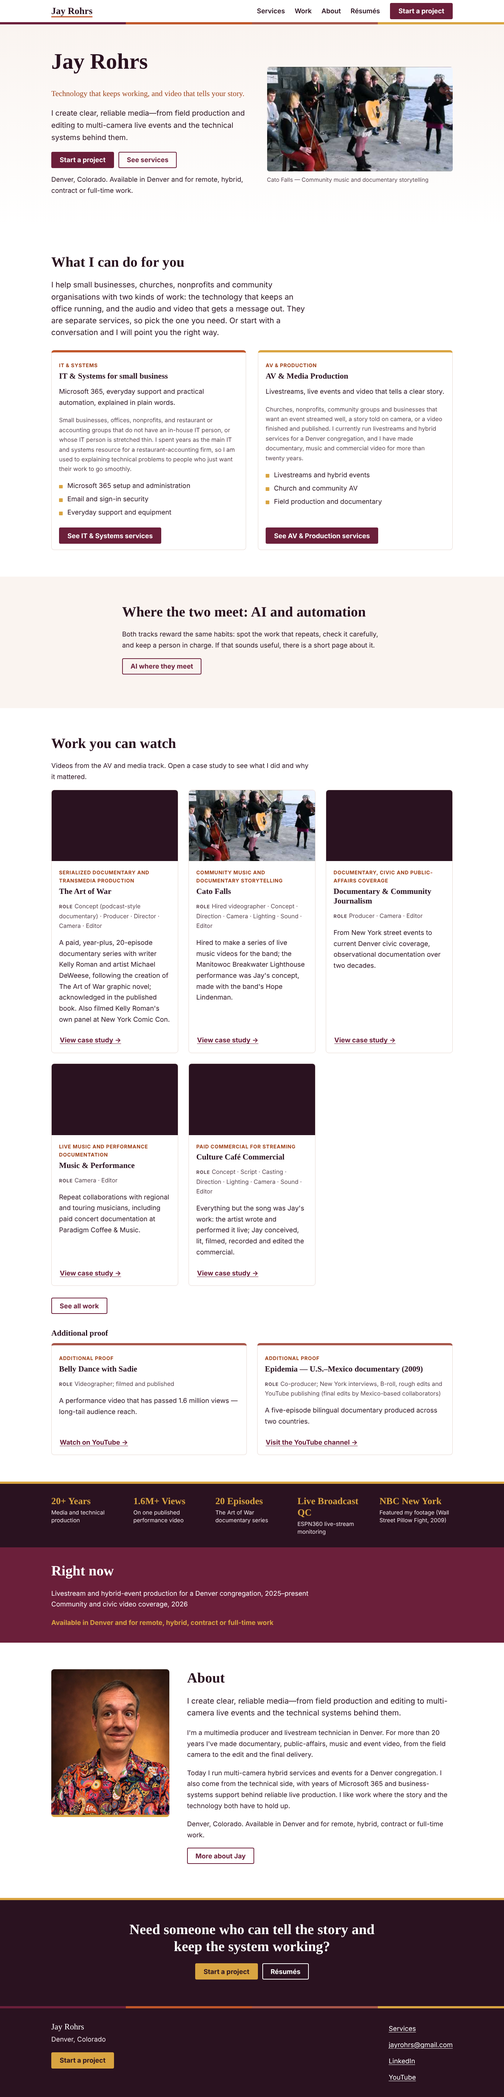
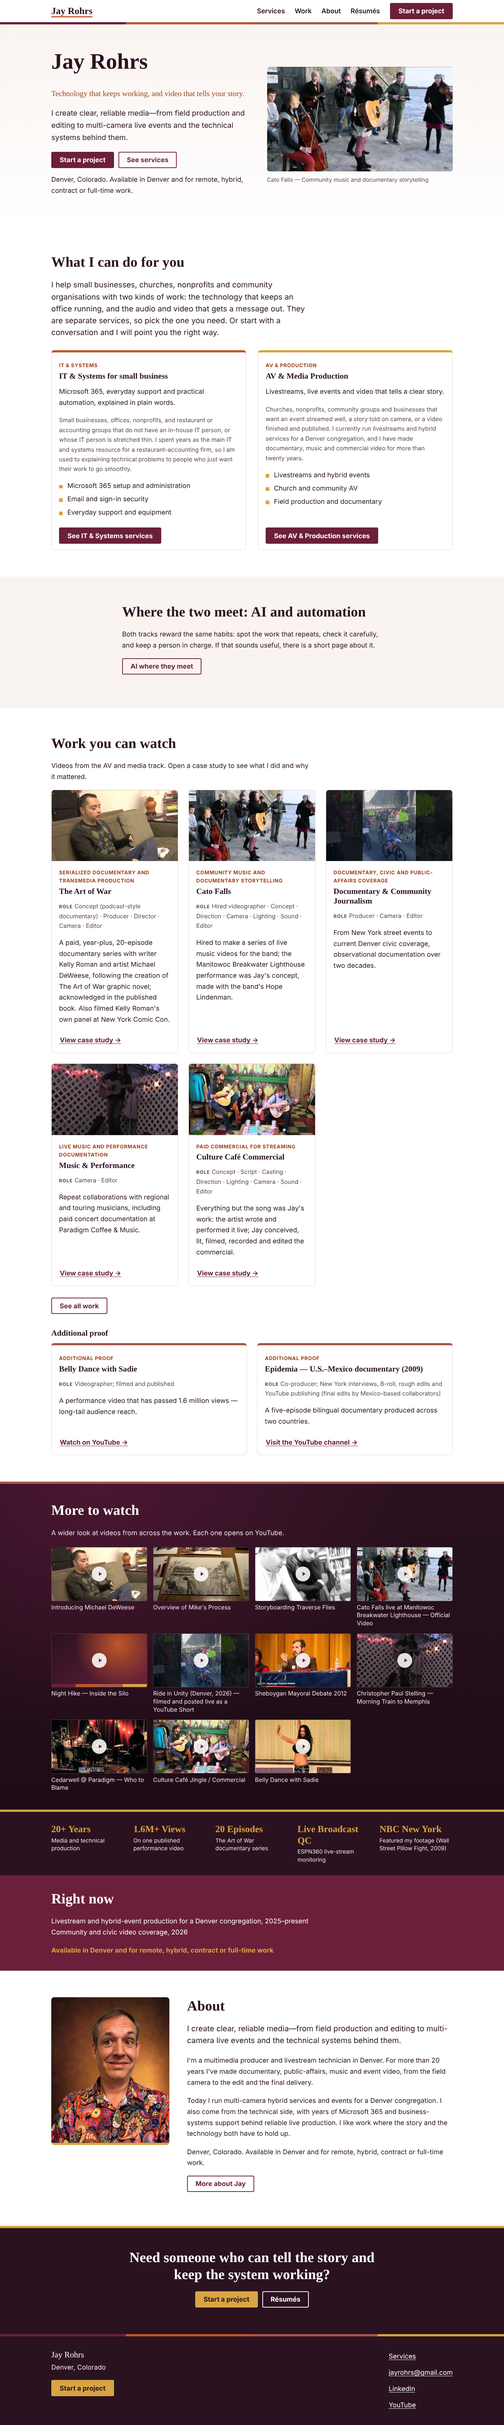
Regenerate pages, sitemap and screenshots
Claude-Session: https://claude.ai/code/session_01GVagyfTdzkbgGPHEb9ysaz

diff --git a/index.html b/index.html
@@ -5,16 +5,18 @@
 <meta name="viewport" content="width=device-width, initial-scale=1">
 <title>Jay Rohrs — IT &amp; Systems and AV &amp; Media Production in Denver</title>
 <meta name="description" content="Technology that keeps working, and video that tells your story. IT and systems help, and AV and media production, for small businesses, churches and nonprofits. Denver, Colorado.">
+<link rel="canonical" href="https://www.jbase.app/">
 <meta property="og:type" content="website">
 <meta property="og:site_name" content="Jay Rohrs">
 <meta property="og:title" content="Jay Rohrs — IT &amp; Systems and AV &amp; Media Production in Denver">
 <meta property="og:description" content="Technology that keeps working, and video that tells your story. IT and systems help, and AV and media production, for small businesses, churches and nonprofits. Denver, Colorado.">
+<meta property="og:url" content="https://www.jbase.app/">
 <meta name="twitter:card" content="summary">
 <meta http-equiv="Content-Security-Policy" content="default-src 'self'; img-src 'self' data:; style-src 'self'; script-src 'self'; frame-src https://www.youtube-nocookie.com; base-uri 'none'; form-action 'none'">
 <meta name="theme-color" content="#2a1220">
 <link rel="icon" href="assets/favicon.svg" type="image/svg+xml">
 <link rel="stylesheet" href="assets/style.css">
-<script type="application/ld+json">{"@context":"https://schema.org","@graph":[{"@type":"Person","@id":"#jay","name":"Jay Rohrs","email":"jayrohrs@gmail.com","sameAs":["https://www.linkedin.com/in/jay-rohrs","https://www.youtube.com/@JCliche/videos"],"address":{"@type":"PostalAddress","addressLocality":"Denver","addressRegion":"Colorado"}},{"@type":"ProfessionalService","name":"Jay Rohrs","description":"I create clear, reliable media—from field production and editing to multi-camera live events and the technical systems behind them.","email":"jayrohrs@gmail.com","founder":{"@id":"#jay"},"address":{"@type":"PostalAddress","addressLocality":"Denver","addressRegion":"Colorado"},"sameAs":["https://www.linkedin.com/in/jay-rohrs","https://www.youtube.com/@JCliche/videos"]}]}</script>
+<script type="application/ld+json">{"@context":"https://schema.org","@graph":[{"@type":"Person","@id":"#jay","name":"Jay Rohrs","email":"jayrohrs@gmail.com","sameAs":["https://www.linkedin.com/in/jay-rohrs","https://www.youtube.com/@JCliche/videos"],"address":{"@type":"PostalAddress","addressLocality":"Denver","addressRegion":"Colorado"}},{"@type":"ProfessionalService","name":"Jay Rohrs","description":"I create clear, reliable media—from field production and editing to multi-camera live events and the technical systems behind them.","email":"jayrohrs@gmail.com","founder":{"@id":"#jay"},"address":{"@type":"PostalAddress","addressLocality":"Denver","addressRegion":"Colorado"},"sameAs":["https://www.linkedin.com/in/jay-rohrs","https://www.youtube.com/@JCliche/videos"],"url":"https://www.jbase.app/"}]}</script>
 </head>
 <body>
 <a class="skip" href="#main">Skip to main content</a>
@@ -173,6 +175,26 @@
   </div>
 </article>
     </div>
+  </div>
+</section>
+
+<section class="wall" id="wall" aria-labelledby="wall-h">
+  <div class="wrap">
+    <h2 id="wall-h">More to watch</h2>
+    <p class="narrow-text">A wider look at videos from across the work. Each one opens on YouTube.</p>
+    <ul class="tiles">
+      <li><a class="tile" href="https://youtu.be/W0aLdycp7ug" target="_blank" rel="noopener noreferrer"><span class="video-frame"><img src="assets/thumbs/W0aLdycp7ug.jpg" alt="" width="480" height="360" loading="lazy" decoding="async"><span class="play play-sm" aria-hidden="true"><svg viewBox="0 0 24 24" width="18" height="18"><path d="M8 5v14l11-7z" fill="currentColor"/></svg></span></span><span class="tile-cap">Introducing Michael DeWeese<span class="sr"> (opens on YouTube in a new tab)</span></span></a></li>
+      <li><a class="tile" href="https://youtu.be/28LTwa-Nldc" target="_blank" rel="noopener noreferrer"><span class="video-frame"><img src="assets/thumbs/28LTwa-Nldc.jpg" alt="" width="480" height="360" loading="lazy" decoding="async"><span class="play play-sm" aria-hidden="true"><svg viewBox="0 0 24 24" width="18" height="18"><path d="M8 5v14l11-7z" fill="currentColor"/></svg></span></span><span class="tile-cap">Overview of Mike's Process<span class="sr"> (opens on YouTube in a new tab)</span></span></a></li>
+      <li><a class="tile" href="https://youtu.be/K1eLNMcTljc" target="_blank" rel="noopener noreferrer"><span class="video-frame"><img src="assets/thumbs/K1eLNMcTljc.jpg" alt="" width="480" height="360" loading="lazy" decoding="async"><span class="play play-sm" aria-hidden="true"><svg viewBox="0 0 24 24" width="18" height="18"><path d="M8 5v14l11-7z" fill="currentColor"/></svg></span></span><span class="tile-cap">Storyboarding Traverse Flies<span class="sr"> (opens on YouTube in a new tab)</span></span></a></li>
+      <li><a class="tile" href="https://youtu.be/M_MTtqQEu-4" target="_blank" rel="noopener noreferrer"><span class="video-frame"><img src="assets/thumbs/M_MTtqQEu-4.jpg" alt="" width="480" height="360" loading="lazy" decoding="async"><span class="play play-sm" aria-hidden="true"><svg viewBox="0 0 24 24" width="18" height="18"><path d="M8 5v14l11-7z" fill="currentColor"/></svg></span></span><span class="tile-cap">Cato Falls live at Manitowoc Breakwater Lighthouse — Official Video<span class="sr"> (opens on YouTube in a new tab)</span></span></a></li>
+      <li><a class="tile" href="https://youtu.be/a5e5YAcFaOQ" target="_blank" rel="noopener noreferrer"><span class="video-frame"><span class="ph" aria-hidden="true"></span><span class="play play-sm" aria-hidden="true"><svg viewBox="0 0 24 24" width="18" height="18"><path d="M8 5v14l11-7z" fill="currentColor"/></svg></span></span><span class="tile-cap">Night Hike — Inside the Silo<span class="sr"> (opens on YouTube in a new tab)</span></span></a></li>
+      <li><a class="tile" href="https://youtube.com/shorts/qgA4NBjJo5A" target="_blank" rel="noopener noreferrer"><span class="video-frame"><img src="assets/thumbs/qgA4NBjJo5A.jpg" alt="" width="480" height="360" loading="lazy" decoding="async"><span class="play play-sm" aria-hidden="true"><svg viewBox="0 0 24 24" width="18" height="18"><path d="M8 5v14l11-7z" fill="currentColor"/></svg></span></span><span class="tile-cap">Ride in Unity (Denver, 2026) — filmed and posted live as a YouTube Short<span class="sr"> (opens on YouTube in a new tab)</span></span></a></li>
+      <li><a class="tile" href="https://youtu.be/XTkXygRwwBA" target="_blank" rel="noopener noreferrer"><span class="video-frame"><img src="assets/thumbs/XTkXygRwwBA.jpg" alt="" width="480" height="360" loading="lazy" decoding="async"><span class="play play-sm" aria-hidden="true"><svg viewBox="0 0 24 24" width="18" height="18"><path d="M8 5v14l11-7z" fill="currentColor"/></svg></span></span><span class="tile-cap">Sheboygan Mayoral Debate 2012<span class="sr"> (opens on YouTube in a new tab)</span></span></a></li>
+      <li><a class="tile" href="https://youtu.be/qFzKtzFOpE8" target="_blank" rel="noopener noreferrer"><span class="video-frame"><img src="assets/thumbs/qFzKtzFOpE8.jpg" alt="" width="480" height="360" loading="lazy" decoding="async"><span class="play play-sm" aria-hidden="true"><svg viewBox="0 0 24 24" width="18" height="18"><path d="M8 5v14l11-7z" fill="currentColor"/></svg></span></span><span class="tile-cap">Christopher Paul Stelling — Morning Train to Memphis<span class="sr"> (opens on YouTube in a new tab)</span></span></a></li>
+      <li><a class="tile" href="https://youtu.be/OTY6tzkKOB0" target="_blank" rel="noopener noreferrer"><span class="video-frame"><img src="assets/thumbs/OTY6tzkKOB0.jpg" alt="" width="480" height="360" loading="lazy" decoding="async"><span class="play play-sm" aria-hidden="true"><svg viewBox="0 0 24 24" width="18" height="18"><path d="M8 5v14l11-7z" fill="currentColor"/></svg></span></span><span class="tile-cap">Cedarwell @ Paradigm — Who to Blame<span class="sr"> (opens on YouTube in a new tab)</span></span></a></li>
+      <li><a class="tile" href="https://youtu.be/pc7XmDuR-pY" target="_blank" rel="noopener noreferrer"><span class="video-frame"><img src="assets/thumbs/pc7XmDuR-pY.jpg" alt="" width="480" height="360" loading="lazy" decoding="async"><span class="play play-sm" aria-hidden="true"><svg viewBox="0 0 24 24" width="18" height="18"><path d="M8 5v14l11-7z" fill="currentColor"/></svg></span></span><span class="tile-cap">Culture Café Jingle / Commercial<span class="sr"> (opens on YouTube in a new tab)</span></span></a></li>
+      <li><a class="tile" href="https://youtu.be/UveMoL-S75Q" target="_blank" rel="noopener noreferrer"><span class="video-frame"><img src="assets/thumbs/UveMoL-S75Q.jpg" alt="" width="480" height="360" loading="lazy" decoding="async"><span class="play play-sm" aria-hidden="true"><svg viewBox="0 0 24 24" width="18" height="18"><path d="M8 5v14l11-7z" fill="currentColor"/></svg></span></span><span class="tile-cap">Belly Dance with Sadie<span class="sr"> (opens on YouTube in a new tab)</span></span></a></li>
+    </ul>
   </div>
 </section>
 

diff --git a/work.html b/work.html
@@ -5,10 +5,12 @@
 <meta name="viewport" content="width=device-width, initial-scale=1">
 <title>Work — Jay Rohrs</title>
 <meta name="description" content="Selected work by Jay Rohrs: documentary, music, commercial and civic video.">
+<link rel="canonical" href="https://www.jbase.app/work.html">
 <meta property="og:type" content="website">
 <meta property="og:site_name" content="Jay Rohrs">
 <meta property="og:title" content="Work — Jay Rohrs">
 <meta property="og:description" content="Selected work by Jay Rohrs: documentary, music, commercial and civic video.">
+<meta property="og:url" content="https://www.jbase.app/work.html">
 <meta name="twitter:card" content="summary">
 <meta http-equiv="Content-Security-Policy" content="default-src 'self'; img-src 'self' data:; style-src 'self'; script-src 'self'; frame-src https://www.youtube-nocookie.com; base-uri 'none'; form-action 'none'">
 <meta name="theme-color" content="#2a1220">
@@ -124,6 +126,25 @@
   </div>
 </article>
     </div>
+  </div>
+</section>
+<section class="wall" id="wall" aria-labelledby="wall-h">
+  <div class="wrap">
+    <h2 id="wall-h">Video wall</h2>
+    <p class="narrow-text">A wider look at videos from across the work. Each one opens on YouTube.</p>
+    <ul class="tiles">
+      <li><a class="tile" href="https://youtu.be/W0aLdycp7ug" target="_blank" rel="noopener noreferrer"><span class="video-frame"><img src="assets/thumbs/W0aLdycp7ug.jpg" alt="" width="480" height="360" loading="lazy" decoding="async"><span class="play play-sm" aria-hidden="true"><svg viewBox="0 0 24 24" width="18" height="18"><path d="M8 5v14l11-7z" fill="currentColor"/></svg></span></span><span class="tile-cap">Introducing Michael DeWeese<span class="sr"> (opens on YouTube in a new tab)</span></span></a></li>
+      <li><a class="tile" href="https://youtu.be/28LTwa-Nldc" target="_blank" rel="noopener noreferrer"><span class="video-frame"><img src="assets/thumbs/28LTwa-Nldc.jpg" alt="" width="480" height="360" loading="lazy" decoding="async"><span class="play play-sm" aria-hidden="true"><svg viewBox="0 0 24 24" width="18" height="18"><path d="M8 5v14l11-7z" fill="currentColor"/></svg></span></span><span class="tile-cap">Overview of Mike's Process<span class="sr"> (opens on YouTube in a new tab)</span></span></a></li>
+      <li><a class="tile" href="https://youtu.be/K1eLNMcTljc" target="_blank" rel="noopener noreferrer"><span class="video-frame"><img src="assets/thumbs/K1eLNMcTljc.jpg" alt="" width="480" height="360" loading="lazy" decoding="async"><span class="play play-sm" aria-hidden="true"><svg viewBox="0 0 24 24" width="18" height="18"><path d="M8 5v14l11-7z" fill="currentColor"/></svg></span></span><span class="tile-cap">Storyboarding Traverse Flies<span class="sr"> (opens on YouTube in a new tab)</span></span></a></li>
+      <li><a class="tile" href="https://youtu.be/M_MTtqQEu-4" target="_blank" rel="noopener noreferrer"><span class="video-frame"><img src="assets/thumbs/M_MTtqQEu-4.jpg" alt="" width="480" height="360" loading="lazy" decoding="async"><span class="play play-sm" aria-hidden="true"><svg viewBox="0 0 24 24" width="18" height="18"><path d="M8 5v14l11-7z" fill="currentColor"/></svg></span></span><span class="tile-cap">Cato Falls live at Manitowoc Breakwater Lighthouse — Official Video<span class="sr"> (opens on YouTube in a new tab)</span></span></a></li>
+      <li><a class="tile" href="https://youtu.be/a5e5YAcFaOQ" target="_blank" rel="noopener noreferrer"><span class="video-frame"><span class="ph" aria-hidden="true"></span><span class="play play-sm" aria-hidden="true"><svg viewBox="0 0 24 24" width="18" height="18"><path d="M8 5v14l11-7z" fill="currentColor"/></svg></span></span><span class="tile-cap">Night Hike — Inside the Silo<span class="sr"> (opens on YouTube in a new tab)</span></span></a></li>
+      <li><a class="tile" href="https://youtube.com/shorts/qgA4NBjJo5A" target="_blank" rel="noopener noreferrer"><span class="video-frame"><img src="assets/thumbs/qgA4NBjJo5A.jpg" alt="" width="480" height="360" loading="lazy" decoding="async"><span class="play play-sm" aria-hidden="true"><svg viewBox="0 0 24 24" width="18" height="18"><path d="M8 5v14l11-7z" fill="currentColor"/></svg></span></span><span class="tile-cap">Ride in Unity (Denver, 2026) — filmed and posted live as a YouTube Short<span class="sr"> (opens on YouTube in a new tab)</span></span></a></li>
+      <li><a class="tile" href="https://youtu.be/XTkXygRwwBA" target="_blank" rel="noopener noreferrer"><span class="video-frame"><img src="assets/thumbs/XTkXygRwwBA.jpg" alt="" width="480" height="360" loading="lazy" decoding="async"><span class="play play-sm" aria-hidden="true"><svg viewBox="0 0 24 24" width="18" height="18"><path d="M8 5v14l11-7z" fill="currentColor"/></svg></span></span><span class="tile-cap">Sheboygan Mayoral Debate 2012<span class="sr"> (opens on YouTube in a new tab)</span></span></a></li>
+      <li><a class="tile" href="https://youtu.be/qFzKtzFOpE8" target="_blank" rel="noopener noreferrer"><span class="video-frame"><img src="assets/thumbs/qFzKtzFOpE8.jpg" alt="" width="480" height="360" loading="lazy" decoding="async"><span class="play play-sm" aria-hidden="true"><svg viewBox="0 0 24 24" width="18" height="18"><path d="M8 5v14l11-7z" fill="currentColor"/></svg></span></span><span class="tile-cap">Christopher Paul Stelling — Morning Train to Memphis<span class="sr"> (opens on YouTube in a new tab)</span></span></a></li>
+      <li><a class="tile" href="https://youtu.be/OTY6tzkKOB0" target="_blank" rel="noopener noreferrer"><span class="video-frame"><img src="assets/thumbs/OTY6tzkKOB0.jpg" alt="" width="480" height="360" loading="lazy" decoding="async"><span class="play play-sm" aria-hidden="true"><svg viewBox="0 0 24 24" width="18" height="18"><path d="M8 5v14l11-7z" fill="currentColor"/></svg></span></span><span class="tile-cap">Cedarwell @ Paradigm — Who to Blame<span class="sr"> (opens on YouTube in a new tab)</span></span></a></li>
+      <li><a class="tile" href="https://youtu.be/pc7XmDuR-pY" target="_blank" rel="noopener noreferrer"><span class="video-frame"><img src="assets/thumbs/pc7XmDuR-pY.jpg" alt="" width="480" height="360" loading="lazy" decoding="async"><span class="play play-sm" aria-hidden="true"><svg viewBox="0 0 24 24" width="18" height="18"><path d="M8 5v14l11-7z" fill="currentColor"/></svg></span></span><span class="tile-cap">Culture Café Jingle / Commercial<span class="sr"> (opens on YouTube in a new tab)</span></span></a></li>
+      <li><a class="tile" href="https://youtu.be/UveMoL-S75Q" target="_blank" rel="noopener noreferrer"><span class="video-frame"><img src="assets/thumbs/UveMoL-S75Q.jpg" alt="" width="480" height="360" loading="lazy" decoding="async"><span class="play play-sm" aria-hidden="true"><svg viewBox="0 0 24 24" width="18" height="18"><path d="M8 5v14l11-7z" fill="currentColor"/></svg></span></span><span class="tile-cap">Belly Dance with Sadie<span class="sr"> (opens on YouTube in a new tab)</span></span></a></li>
+    </ul>
   </div>
 </section>
 </main>

diff --git a/404.html b/404.html
@@ -10,6 +10,7 @@
 <meta property="og:site_name" content="Jay Rohrs">
 <meta property="og:title" content="Page not found — Jay Rohrs">
 <meta property="og:description" content="That page could not be found. Use the links to go back to the home page, services or work.">
+<meta property="og:url" content="https://www.jbase.app/404.html">
 <meta name="twitter:card" content="summary">
 <meta http-equiv="Content-Security-Policy" content="default-src 'self'; img-src 'self' data:; style-src 'self'; script-src 'self'; frame-src https://www.youtube-nocookie.com; base-uri 'none'; form-action 'none'">
 <meta name="theme-color" content="#2a1220">
@@ -41,10 +42,10 @@
 <section class="section">
   <div class="wrap narrow">
     <ul class="plain">
-      <li><a href="index.html">Home</a></li>
-      <li><a href="services.html">Services</a></li>
-      <li><a href="work.html">Work</a></li>
-      <li><a href="start.html">Start a project</a></li>
+      <li><a href="https://www.jbase.app/index.html">Home</a></li>
+      <li><a href="https://www.jbase.app/services.html">Services</a></li>
+      <li><a href="https://www.jbase.app/work.html">Work</a></li>
+      <li><a href="https://www.jbase.app/start.html">Start a project</a></li>
     </ul>
   </div>
 </section>

diff --git a/services/it.html b/services/it.html
@@ -5,10 +5,12 @@
 <meta name="viewport" content="width=device-width, initial-scale=1">
 <title>IT &amp; Systems for small business — Jay Rohrs</title>
 <meta name="description" content="Microsoft 365, email security, everyday tech support and routine automation checks for small businesses, offices, nonprofits and restaurant groups, from Jay Rohrs in Denver.">
+<link rel="canonical" href="https://www.jbase.app/services/it.html">
 <meta property="og:type" content="website">
 <meta property="og:site_name" content="Jay Rohrs">
 <meta property="og:title" content="IT &amp; Systems for small business — Jay Rohrs">
 <meta property="og:description" content="Microsoft 365, email security, everyday tech support and routine automation checks for small businesses, offices, nonprofits and restaurant groups, from Jay Rohrs in Denver.">
+<meta property="og:url" content="https://www.jbase.app/services/it.html">
 <meta name="twitter:card" content="summary">
 <meta http-equiv="Content-Security-Policy" content="default-src 'self'; img-src 'self' data:; style-src 'self'; script-src 'self'; frame-src https://www.youtube-nocookie.com; base-uri 'none'; form-action 'none'">
 <meta name="theme-color" content="#2a1220">

diff --git a/services/av.html b/services/av.html
@@ -5,10 +5,12 @@
 <meta name="viewport" content="width=device-width, initial-scale=1">
 <title>AV &amp; Media Production — Jay Rohrs</title>
 <meta name="description" content="Livestreams, multi-camera hybrid events, field production, editing and documentary storytelling for churches, nonprofits and businesses, from Jay Rohrs in Denver.">
+<link rel="canonical" href="https://www.jbase.app/services/av.html">
 <meta property="og:type" content="website">
 <meta property="og:site_name" content="Jay Rohrs">
 <meta property="og:title" content="AV &amp; Media Production — Jay Rohrs">
 <meta property="og:description" content="Livestreams, multi-camera hybrid events, field production, editing and documentary storytelling for churches, nonprofits and businesses, from Jay Rohrs in Denver.">
+<meta property="og:url" content="https://www.jbase.app/services/av.html">
 <meta name="twitter:card" content="summary">
 <meta http-equiv="Content-Security-Policy" content="default-src 'self'; img-src 'self' data:; style-src 'self'; script-src 'self'; frame-src https://www.youtube-nocookie.com; base-uri 'none'; form-action 'none'">
 <meta name="theme-color" content="#2a1220">

diff --git a/services.html b/services.html
@@ -5,10 +5,12 @@
 <meta name="viewport" content="width=device-width, initial-scale=1">
 <title>Services — Jay Rohrs</title>
 <meta name="description" content="IT and systems help, and AV and media production, for small businesses, churches and nonprofits in Denver, Colorado. Two separate services, one conversation to start.">
+<link rel="canonical" href="https://www.jbase.app/services.html">
 <meta property="og:type" content="website">
 <meta property="og:site_name" content="Jay Rohrs">
 <meta property="og:title" content="Services — Jay Rohrs">
 <meta property="og:description" content="IT and systems help, and AV and media production, for small businesses, churches and nonprofits in Denver, Colorado. Two separate services, one conversation to start.">
+<meta property="og:url" content="https://www.jbase.app/services.html">
 <meta name="twitter:card" content="summary">
 <meta http-equiv="Content-Security-Policy" content="default-src 'self'; img-src 'self' data:; style-src 'self'; script-src 'self'; frame-src https://www.youtube-nocookie.com; base-uri 'none'; form-action 'none'">
 <meta name="theme-color" content="#2a1220">

diff --git a/projects/art-of-war.html b/projects/art-of-war.html
@@ -5,10 +5,12 @@
 <meta name="viewport" content="width=device-width, initial-scale=1">
 <title>The Art of War — Jay Rohrs</title>
 <meta name="description" content="Serialized documentary and transmedia production. Concept (podcast-style documentary) · Producer · Director · Camera · Editor.">
+<link rel="canonical" href="https://www.jbase.app/projects/art-of-war.html">
 <meta property="og:type" content="website">
 <meta property="og:site_name" content="Jay Rohrs">
 <meta property="og:title" content="The Art of War — Jay Rohrs">
 <meta property="og:description" content="Serialized documentary and transmedia production. Concept (podcast-style documentary) · Producer · Director · Camera · Editor.">
+<meta property="og:url" content="https://www.jbase.app/projects/art-of-war.html">
 <meta name="twitter:card" content="summary">
 <meta http-equiv="Content-Security-Policy" content="default-src 'self'; img-src 'self' data:; style-src 'self'; script-src 'self'; frame-src https://www.youtube-nocookie.com; base-uri 'none'; form-action 'none'">
 <meta name="theme-color" content="#2a1220">

diff --git a/projects/cato-falls.html b/projects/cato-falls.html
@@ -5,10 +5,12 @@
 <meta name="viewport" content="width=device-width, initial-scale=1">
 <title>Cato Falls — Jay Rohrs</title>
 <meta name="description" content="Community music and documentary storytelling. Hired videographer · Concept · Direction · Camera · Lighting · Sound · Editor.">
+<link rel="canonical" href="https://www.jbase.app/projects/cato-falls.html">
 <meta property="og:type" content="website">
 <meta property="og:site_name" content="Jay Rohrs">
 <meta property="og:title" content="Cato Falls — Jay Rohrs">
 <meta property="og:description" content="Community music and documentary storytelling. Hired videographer · Concept · Direction · Camera · Lighting · Sound · Editor.">
+<meta property="og:url" content="https://www.jbase.app/projects/cato-falls.html">
 <meta name="twitter:card" content="summary">
 <meta http-equiv="Content-Security-Policy" content="default-src 'self'; img-src 'self' data:; style-src 'self'; script-src 'self'; frame-src https://www.youtube-nocookie.com; base-uri 'none'; form-action 'none'">
 <meta name="theme-color" content="#2a1220">

diff --git a/projects/culture-cafe.html b/projects/culture-cafe.html
@@ -5,10 +5,12 @@
 <meta name="viewport" content="width=device-width, initial-scale=1">
 <title>Culture Café Commercial — Jay Rohrs</title>
 <meta name="description" content="Paid commercial for streaming. Concept · Script · Casting · Direction · Lighting · Camera · Sound · Editor.">
+<link rel="canonical" href="https://www.jbase.app/projects/culture-cafe.html">
 <meta property="og:type" content="website">
 <meta property="og:site_name" content="Jay Rohrs">
 <meta property="og:title" content="Culture Café Commercial — Jay Rohrs">
 <meta property="og:description" content="Paid commercial for streaming. Concept · Script · Casting · Direction · Lighting · Camera · Sound · Editor.">
+<meta property="og:url" content="https://www.jbase.app/projects/culture-cafe.html">
 <meta name="twitter:card" content="summary">
 <meta http-equiv="Content-Security-Policy" content="default-src 'self'; img-src 'self' data:; style-src 'self'; script-src 'self'; frame-src https://www.youtube-nocookie.com; base-uri 'none'; form-action 'none'">
 <meta name="theme-color" content="#2a1220">

diff --git a/services/ai.html b/services/ai.html
@@ -5,10 +5,12 @@
 <meta name="viewport" content="width=device-width, initial-scale=1">
 <title>AI where they meet — Jay Rohrs</title>
 <meta name="description" content="How AI-assisted work, routine automation checks and clear documentation connect IT and media production, from Jay Rohrs in Denver.">
+<link rel="canonical" href="https://www.jbase.app/services/ai.html">
 <meta property="og:type" content="website">
 <meta property="og:site_name" content="Jay Rohrs">
 <meta property="og:title" content="AI where they meet — Jay Rohrs">
 <meta property="og:description" content="How AI-assisted work, routine automation checks and clear documentation connect IT and media production, from Jay Rohrs in Denver.">
+<meta property="og:url" content="https://www.jbase.app/services/ai.html">
 <meta name="twitter:card" content="summary">
 <meta http-equiv="Content-Security-Policy" content="default-src 'self'; img-src 'self' data:; style-src 'self'; script-src 'self'; frame-src https://www.youtube-nocookie.com; base-uri 'none'; form-action 'none'">
 <meta name="theme-color" content="#2a1220">

diff --git a/start.html b/start.html
@@ -5,10 +5,12 @@
 <meta name="viewport" content="width=device-width, initial-scale=1">
 <title>Start a project — Jay Rohrs</title>
 <meta name="description" content="Tell Jay Rohrs what you need: IT and systems help, AV and media production, or both. Your email program opens with the request filled in.">
+<link rel="canonical" href="https://www.jbase.app/start.html">
 <meta property="og:type" content="website">
 <meta property="og:site_name" content="Jay Rohrs">
 <meta property="og:title" content="Start a project — Jay Rohrs">
 <meta property="og:description" content="Tell Jay Rohrs what you need: IT and systems help, AV and media production, or both. Your email program opens with the request filled in.">
+<meta property="og:url" content="https://www.jbase.app/start.html">
 <meta name="twitter:card" content="summary">
 <meta http-equiv="Content-Security-Policy" content="default-src 'self'; img-src 'self' data:; style-src 'self'; script-src 'self'; frame-src https://www.youtube-nocookie.com; base-uri 'none'; form-action 'none'">
 <meta name="theme-color" content="#2a1220">

diff --git a/projects/documentary-journalism.html b/projects/documentary-journalism.html
@@ -5,10 +5,12 @@
 <meta name="viewport" content="width=device-width, initial-scale=1">
 <title>Documentary &amp; Community Journalism — Jay Rohrs</title>
 <meta name="description" content="Documentary, civic and public-affairs coverage. Producer · Camera · Editor.">
+<link rel="canonical" href="https://www.jbase.app/projects/documentary-journalism.html">
 <meta property="og:type" content="website">
 <meta property="og:site_name" content="Jay Rohrs">
 <meta property="og:title" content="Documentary &amp; Community Journalism — Jay Rohrs">
 <meta property="og:description" content="Documentary, civic and public-affairs coverage. Producer · Camera · Editor.">
+<meta property="og:url" content="https://www.jbase.app/projects/documentary-journalism.html">
 <meta name="twitter:card" content="summary">
 <meta http-equiv="Content-Security-Policy" content="default-src 'self'; img-src 'self' data:; style-src 'self'; script-src 'self'; frame-src https://www.youtube-nocookie.com; base-uri 'none'; form-action 'none'">
 <meta name="theme-color" content="#2a1220">
